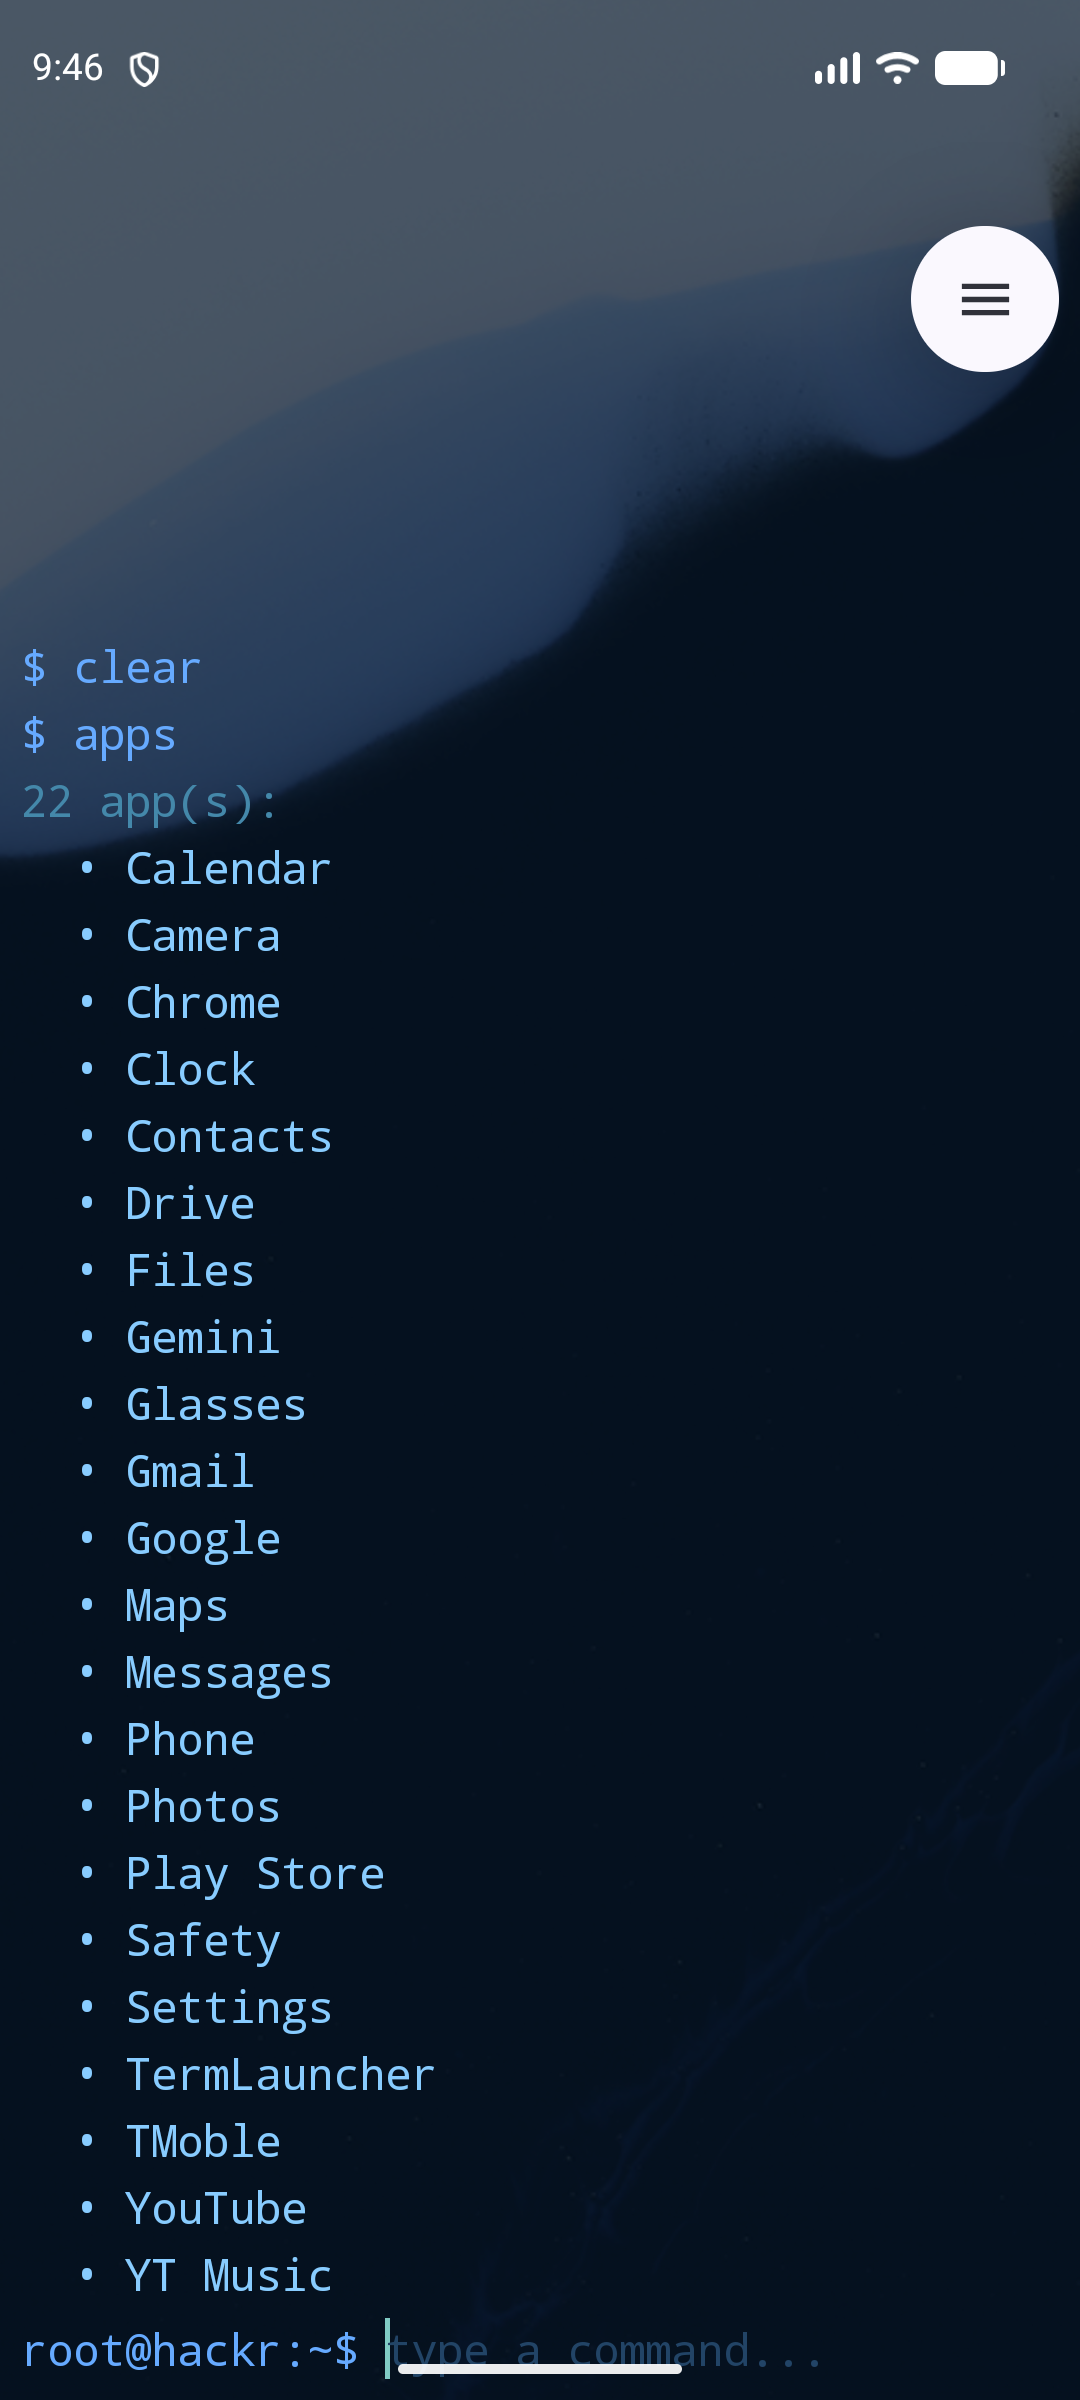
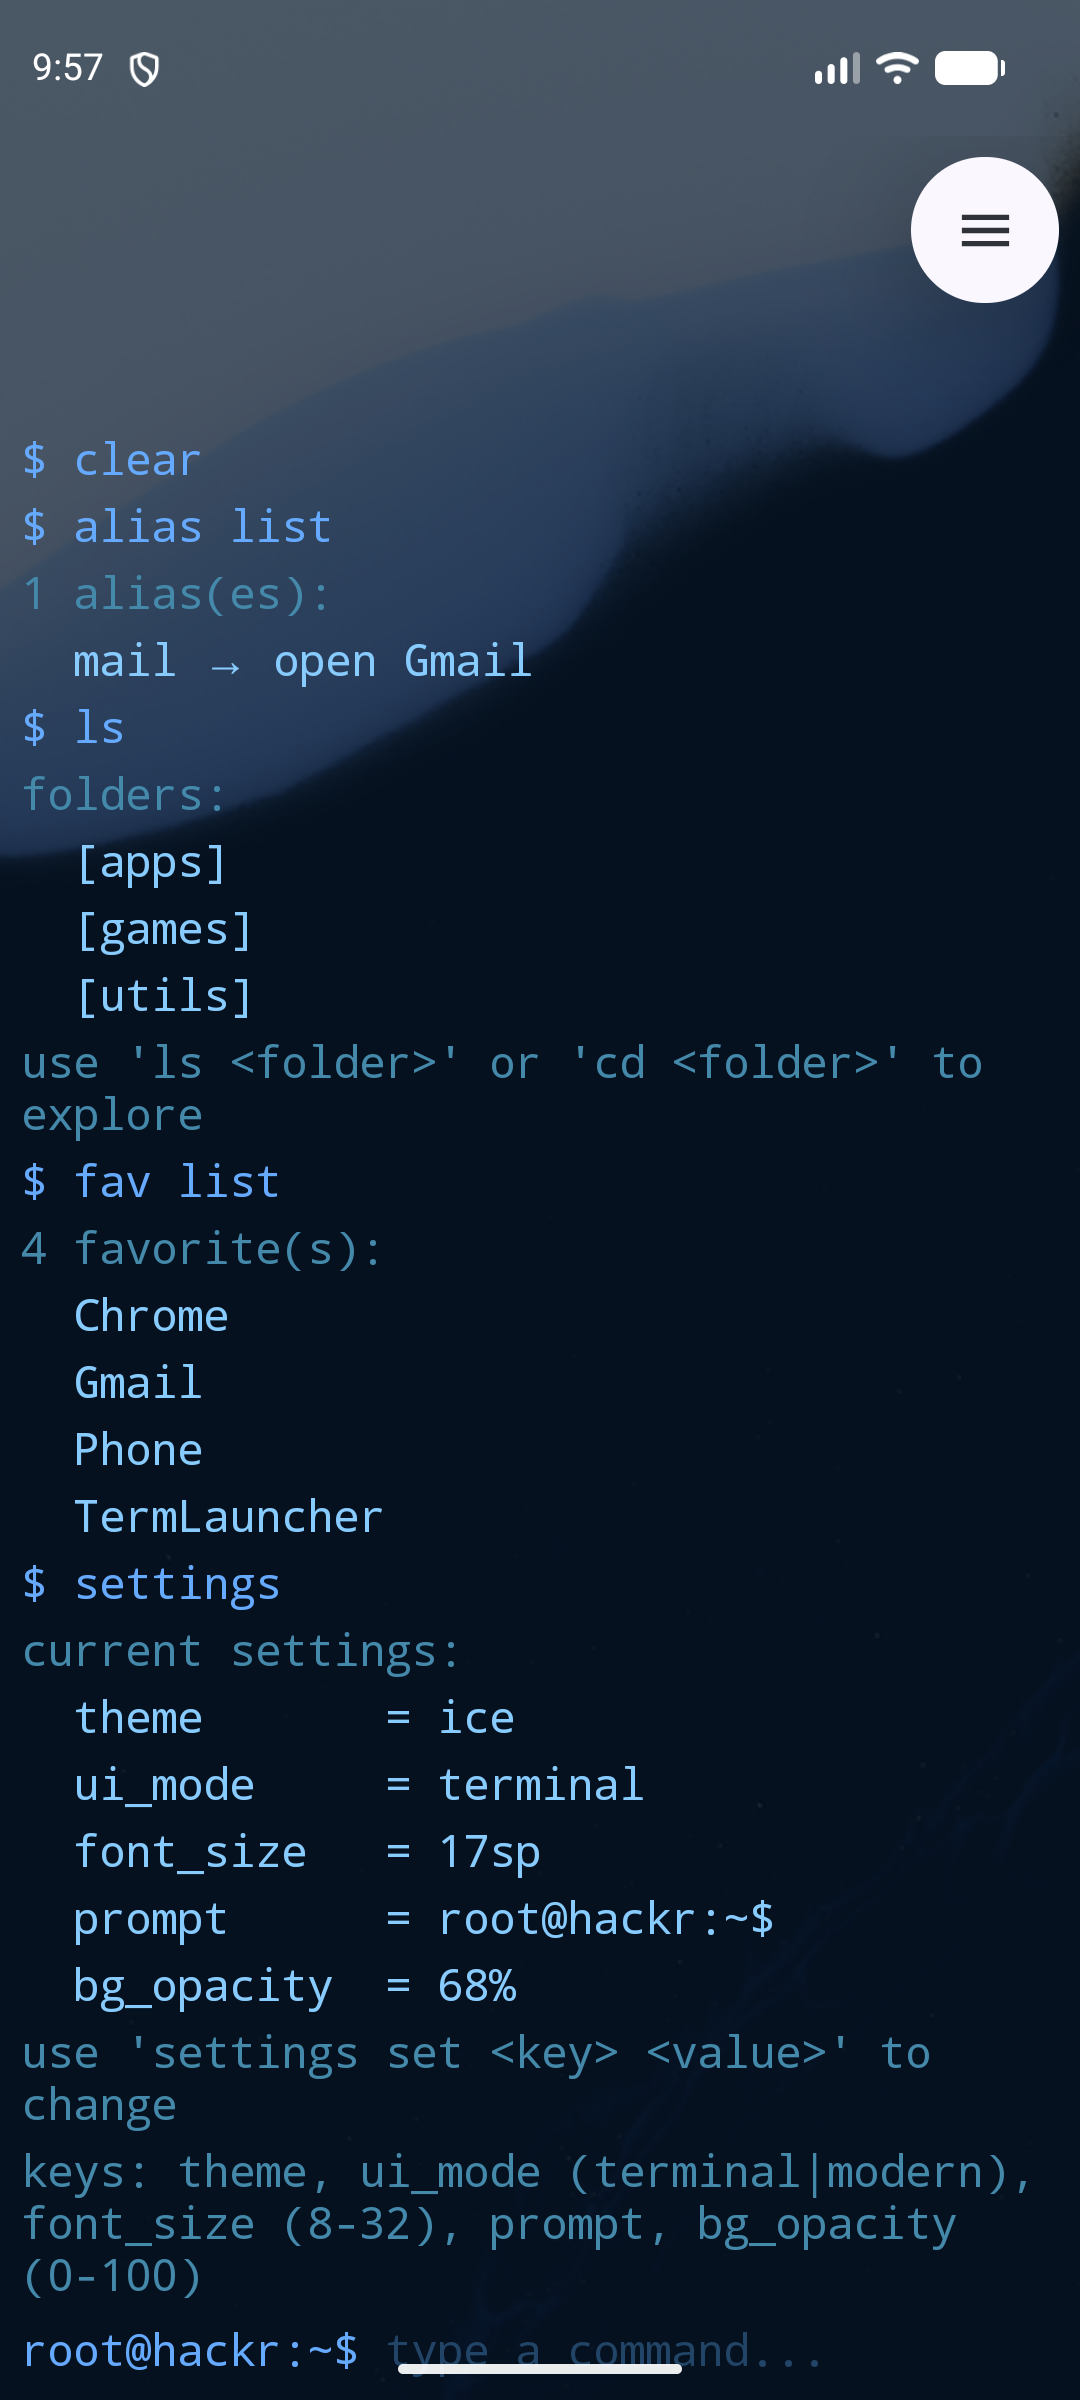
Swap README's terminal-mode screenshot to match the modern-mode one
Same aliases/folders/favorites/settings showcase as the modern shot,
now rendered in plain terminal-mode text for a direct comparison.

diff --git a/README.md b/README.md
@@ -8,7 +8,7 @@ No icon grid. No widgets. No app drawer to swipe through. You unlock your phone,
   <img src="screenshots/modern-home.png" width="200" alt="Modern mode home screen">
   <img src="screenshots/modern-apps.png" width="200" alt="Modern mode aliases, folders, and favorites">
   <img src="screenshots/modern-settings.png" width="200" alt="Modern mode settings panel">
-  <img src="screenshots/terminal-apps.png" width="200" alt="Terminal mode app list">
+  <img src="screenshots/terminal-apps.png" width="200" alt="Terminal mode aliases, folders, favorites, and settings">
 </p>
 <p align="center"><i>Modern mode (default) — home screen, aliases/folders/favorites, and the interactive settings panel — next to terminal mode's plain-text look.</i></p>
 
